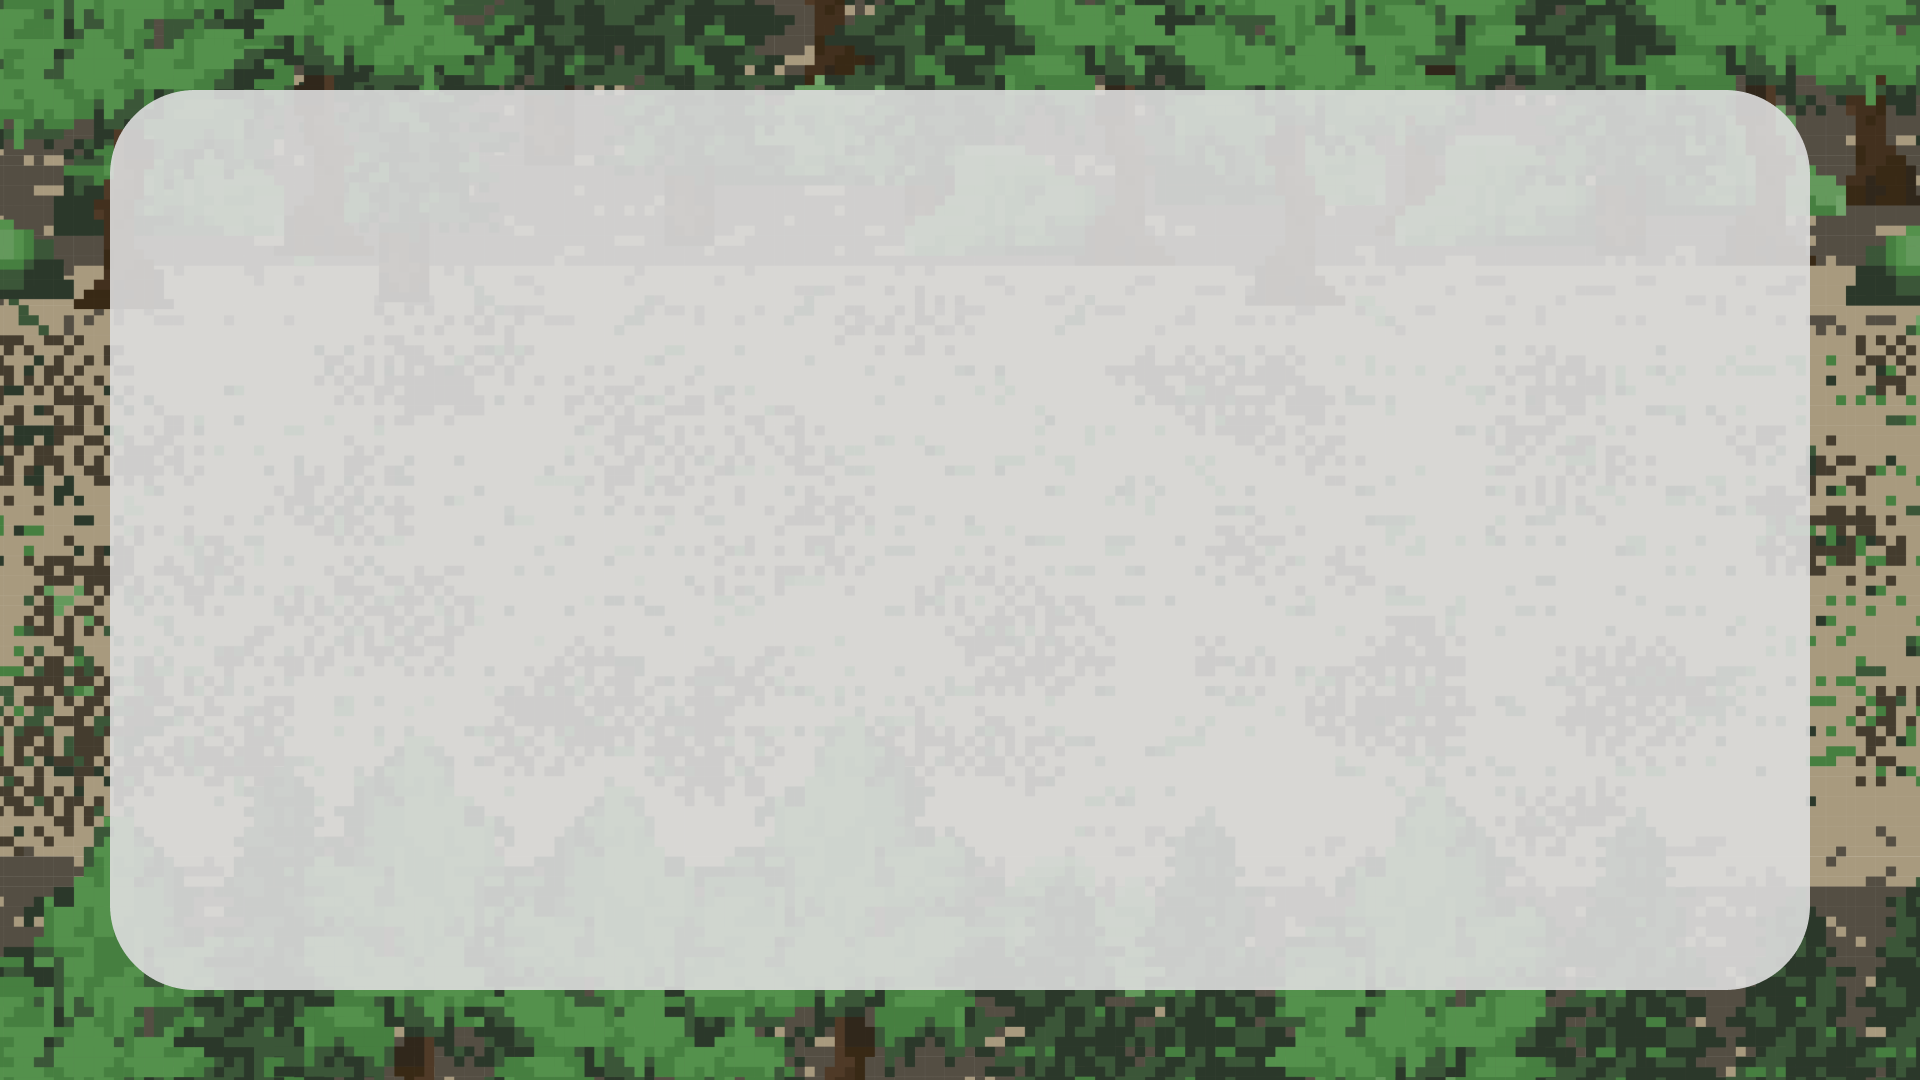
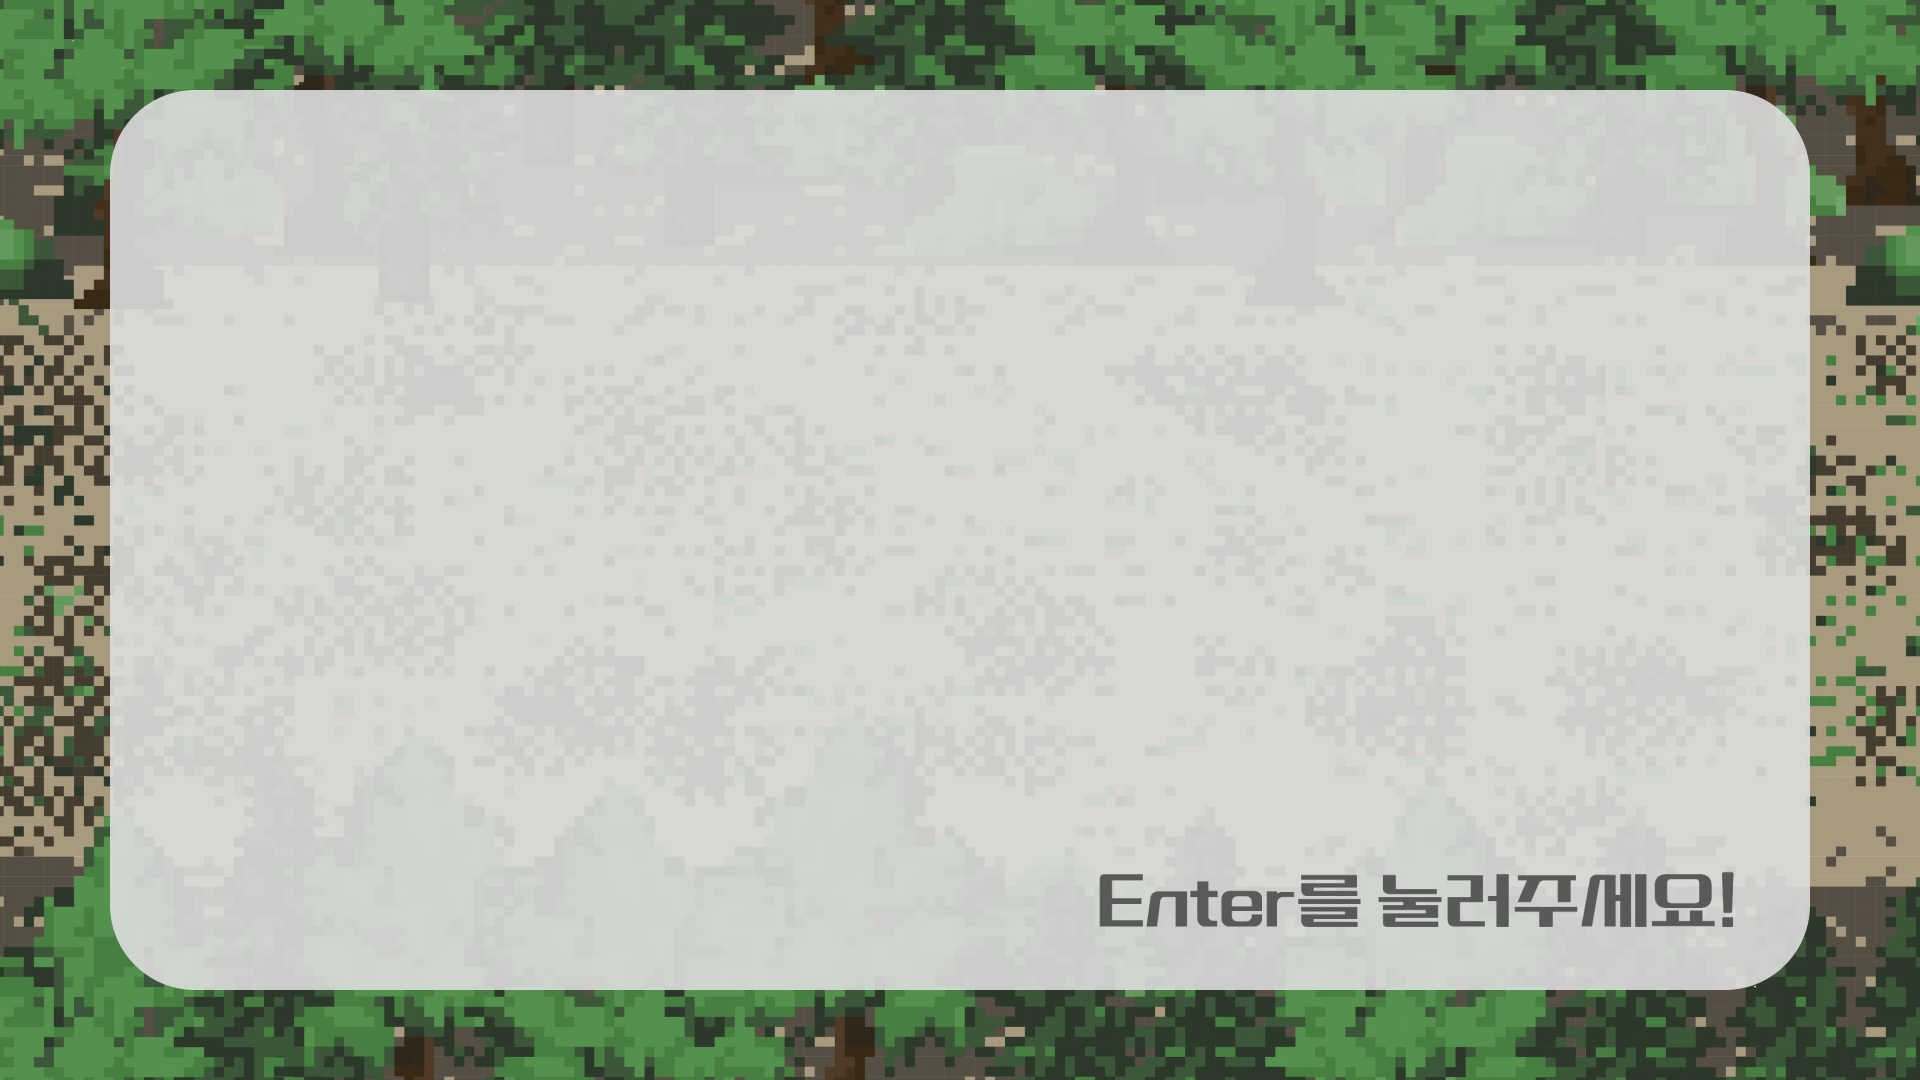
이름 입력받기 수정중

Changed region(s): [[0.5625, 0.7944, 0.9062, 0.8556]]

diff --git a/src/WriteName.java b/src/WriteName.java
@@ -1,27 +1,55 @@
 import javax.sound.sampled.AudioSystem;
 import javax.sound.sampled.Clip;
 import javax.swing.*;
+import javax.swing.border.EmptyBorder;
 import java.awt.*;
 import java.io.File;
+import java.io.IOException;
 
 public class WriteName extends JFrame {
     public WriteName() {
+        int width = 1920;    // 프레임 가로
+        int height = 1080;   // 프레임 높이
+        String yourname;         // 이름
         // 이미지 파일 경로
-        String ruleimagePath = "src/image/name.png";
+        String ruleImagePath = "src/image/name.png";
 
         // 창 생성
         JFrame frame = new JFrame("Write Your Name");
-        frame.setSize(1920, 1080);
-//        frame.setExtendedState(JFrame.MAXIMIZED_BOTH);  // 전체 화면으로 설정
+        frame.setSize(width, height);
+        // frame.setExtendedState(JFrame.MAXIMIZED_BOTH);  // 전체 화면으로 설정
         frame.setUndecorated(true);  // 타이틀 바 숨김
         frame.setDefaultCloseOperation(JFrame.EXIT_ON_CLOSE);
 
         // 이미지 패널 생성
-        ImagePanel imagePanel = new ImagePanel(ruleimagePath);
+        ImagePanel imagePanel = new ImagePanel(ruleImagePath);
         frame.add(imagePanel);
 
-        // 이미지 패널에 버튼 추가 및 정렬 설정
-        imagePanel.setLayout(new GridBagLayout());
+        // 이미지 패널에 텍스트를 표시할 JLabel 생성
+        JLabel label = new JLabel("이름을 입력해주세요.");
+        label.setForeground(Color.BLACK);
+
+        // 마진 생성 및 설정
+        int margin = 200;  // 원하는 마진 크기 설정
+        EmptyBorder marginBorder = new EmptyBorder(margin, margin, margin, margin);
+        label.setBorder(marginBorder);
+
+        // 폰트 설정
+        Font koreanFont = null;
+        try {
+            koreanFont = Font.createFont(Font.TRUETYPE_FONT, new File("src/font/font.ttf")).deriveFont(Font.PLAIN, 80);
+            GraphicsEnvironment ge = GraphicsEnvironment.getLocalGraphicsEnvironment();
+            ge.registerFont(koreanFont);
+        } catch (IOException | FontFormatException e) {
+            e.printStackTrace();
+        }
+
+        if (koreanFont != null) {
+            label.setFont(koreanFont);
+        }
+
+        // 이미지 패널에 JLabel 추가
+        imagePanel.add(label);
 
         // 창 표시
         frame.setVisible(true);
@@ -37,6 +65,10 @@ public class WriteName extends JFrame {
     }
 
     public static void main(String[] args) {
+        String name = JOptionPane.showInputDialog(null, "이름을 입력하세요:", "이름 입력", JOptionPane.PLAIN_MESSAGE);
+        if (name != null && !name.isEmpty()) {
+            System.out.println("입력된 이름: " + name);
+        }
         SwingUtilities.invokeLater(() -> new WriteName());
     }
 }

diff --git a/src/WriteName2.java b/src/WriteName2.java
@@ -1,0 +1,24 @@
+import javax.swing.*;
+import java.awt.Font;
+import java.io.File;
+
+public class WriteName2 extends JFrame {
+
+    public WriteName2() {
+        try {
+            Font customFont = Font.createFont(Font.TRUETYPE_FONT, new File("src/font/font.ttf")); // 폰트 파일 경로를 적절히 수정
+            UIManager.put("OptionPane.messageFont", customFont.deriveFont(Font.PLAIN, 12));
+        } catch (Exception e) {
+            e.printStackTrace();
+        }
+
+        String name = JOptionPane.showInputDialog(null, "이름을 입력해주세요.", "Write Your Name", JOptionPane.PLAIN_MESSAGE);
+        if (name != null && !name.isEmpty()) {
+            System.out.println("입력된 이름: " + name);
+        }
+    }
+
+    public static void main(String[] args) {
+        SwingUtilities.invokeLater(() -> new WriteName2());
+    }
+}
